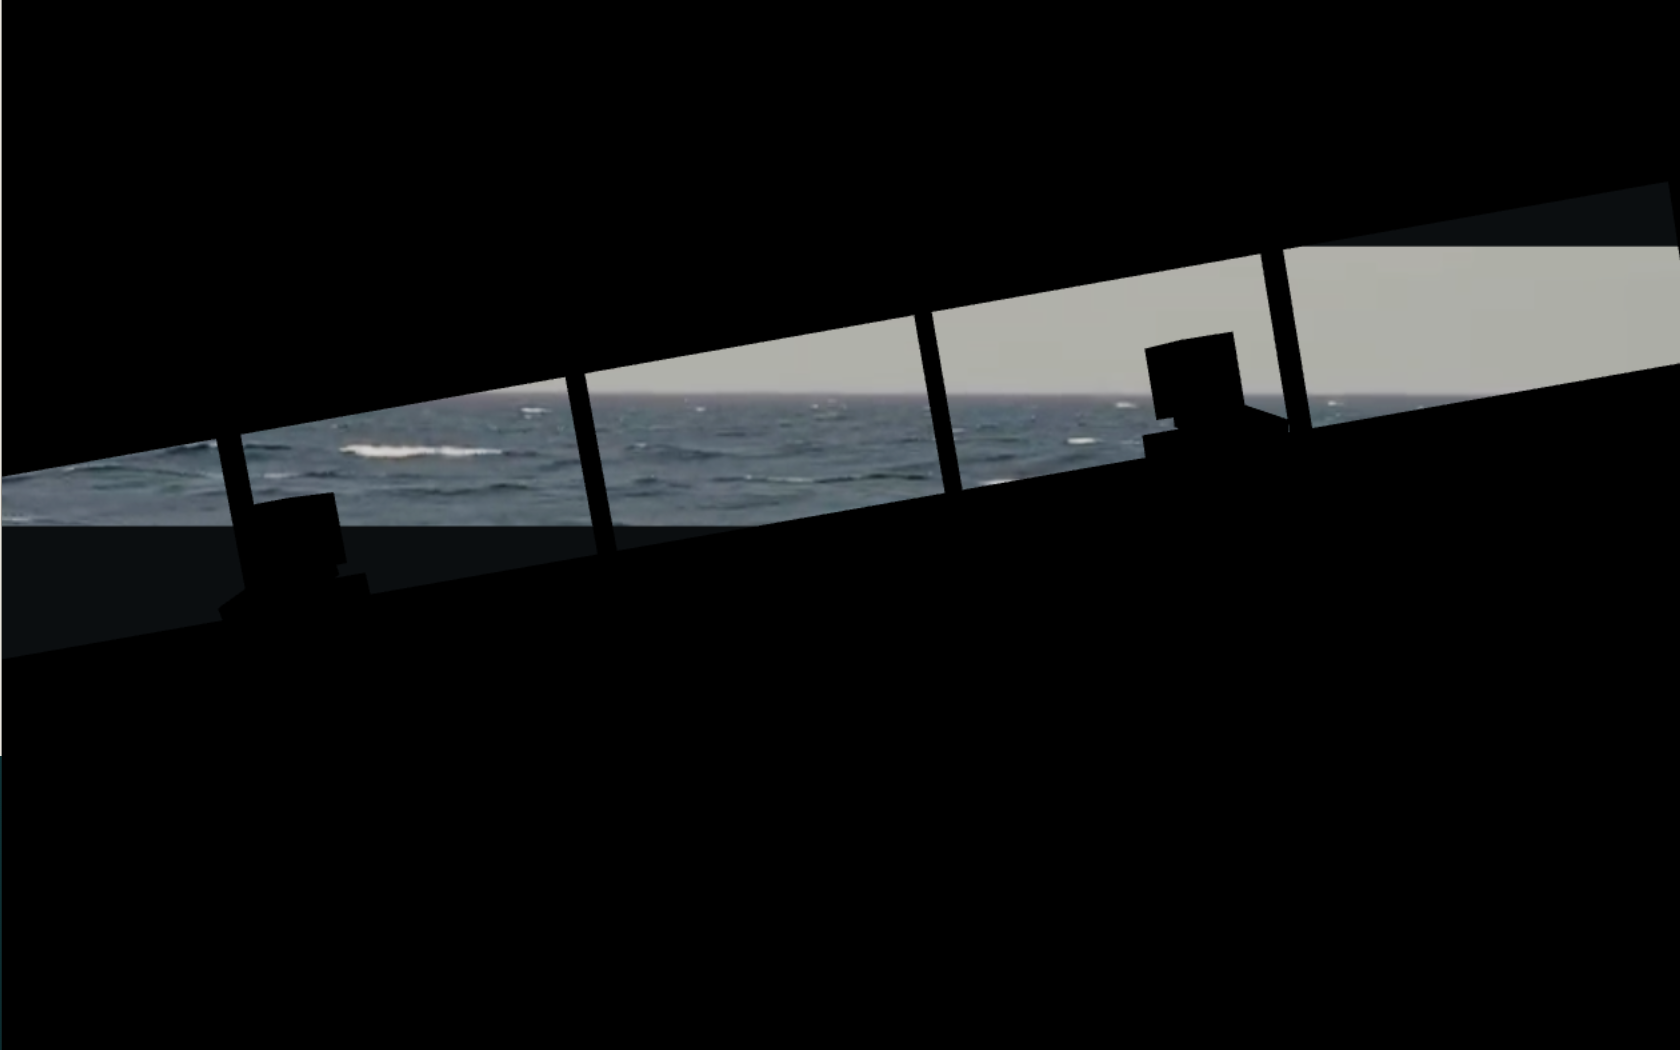
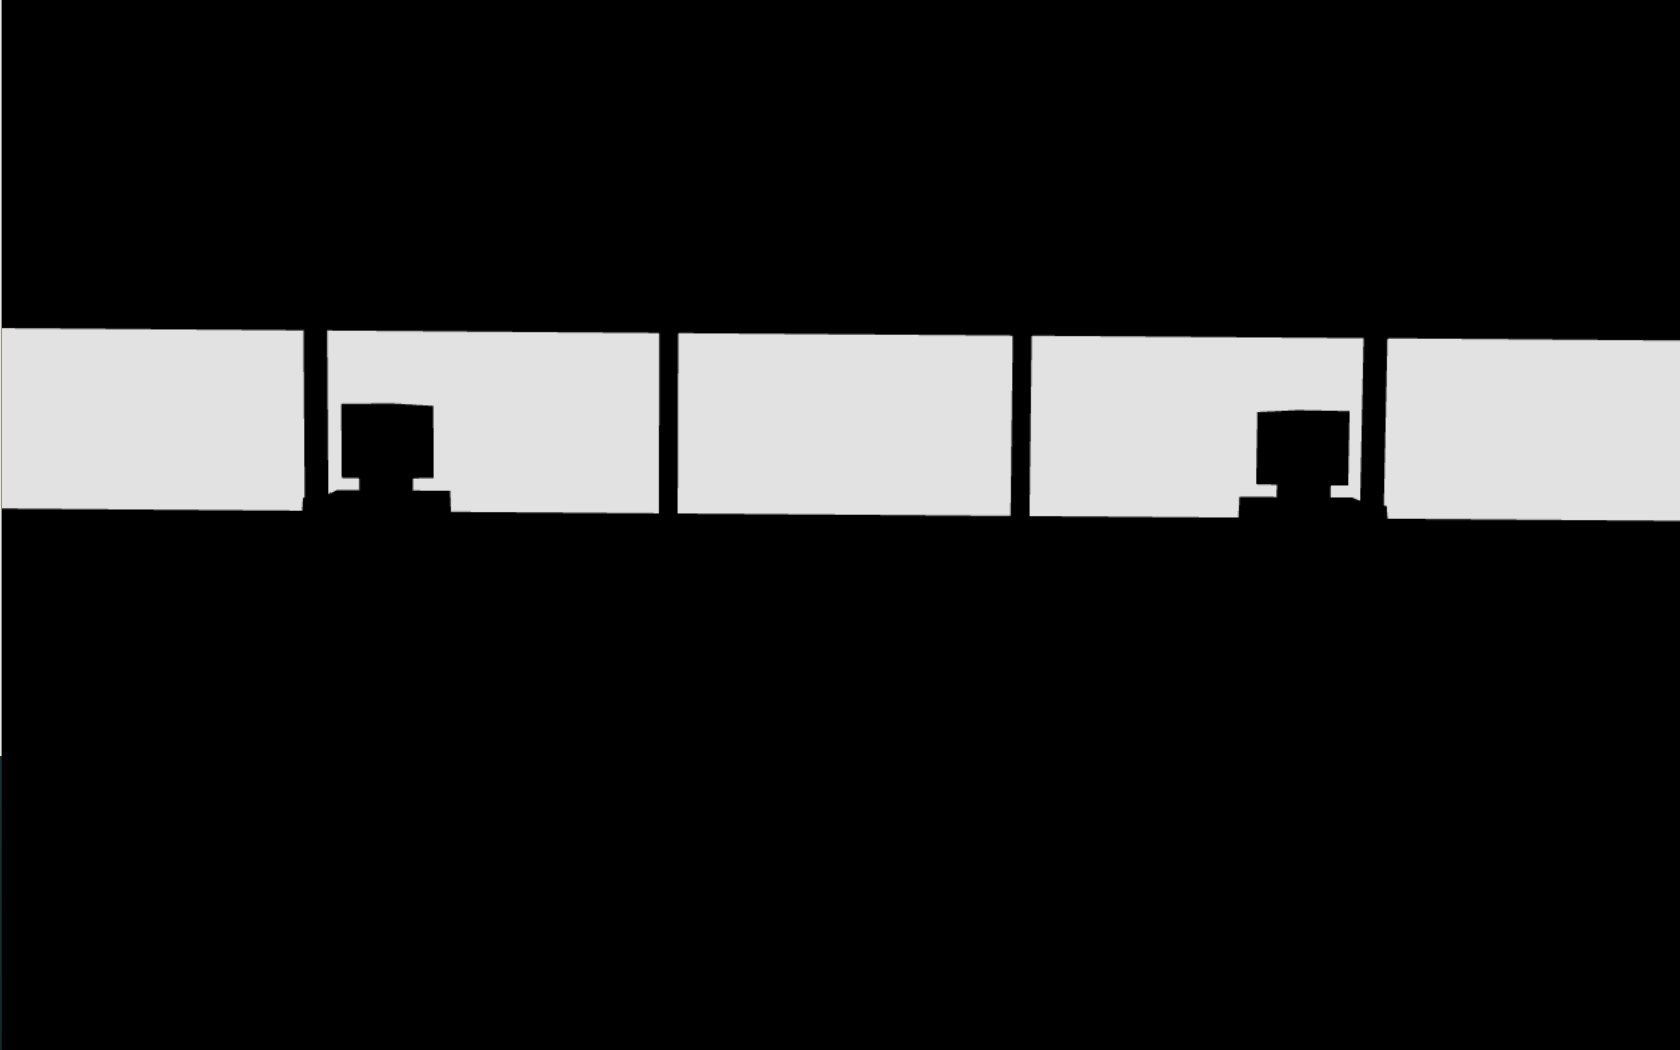
Le due pose vestite, e le maschere per posa

Changed region(s): [[0.0, 0.2133, 1.0, 0.5181]]

diff --git a/src/scena/salone.js b/src/scena/salone.js
@@ -307,7 +307,12 @@ export function creaSalone (contenitore) {
   const filmato = document.createElement('video')
   filmato.src = import.meta.env.BASE_URL + 'filmati/mare-fuoribordo.mp4'
   filmato.loop = true; filmato.muted = true; filmato.playsInline = true
+  /* In modalita' maschera il filmato NON si applica: serve il bianco pieno.
+     Senza questa riga il gestore `loadeddata` sovrascriveva il materiale bianco
+     con la tessitura video, e la maschera usciva col mare dentro la finestra —
+     utilizzabile con una soglia, ma ambigua proprio dove deve essere netta. */
   filmato.addEventListener('loadeddata', () => {
+    if (MASCHERA) return
     const t = new VideoTexture(filmato)
     t.colorSpace = SRGBColorSpace
     mare.material.map = t
